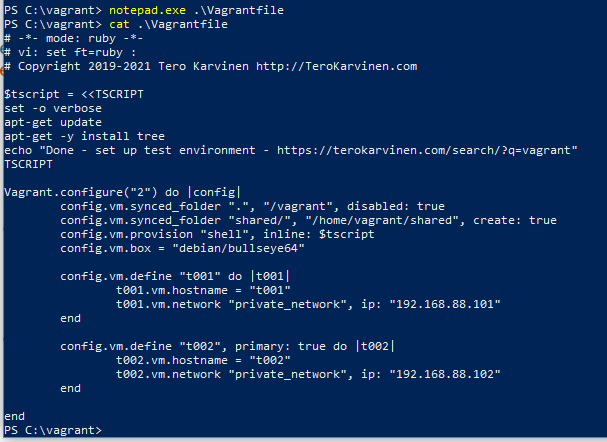
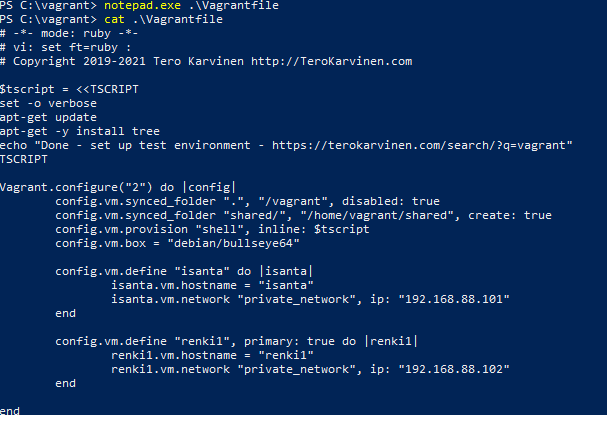
Add b) and c)

diff --git a/h6-kulkurin-projekti.md b/h6-kulkurin-projekti.md
@@ -158,7 +158,7 @@ Vagrantilla luotu virtuaalikone vaikuttaisi olevan toiminnassa, sillä siihen sa
 
 ![Vagrant virtual machine in virtualbox](1.png)
 
-Ja siellähän se näkyi olevan pyörimässä! Tuhoan vielä tämän koneen seuraavaa tehtävää varten:
+Ja siellähän se näkyi olevan pyörimässä! Tuhosin vielä tämän koneen seuraavaa tehtävää varten:
 ```
 vagrant@bullseye:~$ exit
 logout
@@ -172,7 +172,61 @@ Virtuaalikone poistui onnistuneesti.
 
 ## b) Yksityisverkko. Asenna kaksi virtuaalikonetta samaan verkkoon Vagrantilla. Laita toisen koneen nimeksi "isanta" ja toisen "renki1". Kokeile, että "renki1" saa yhteyden koneeseen "isanta" (esim. ping tai nc). Tehtävä tulee siis tehdä alusta, vaikka olisit ehtinyt kokeilla tätä tunnilla.
 
-Avasin Vagrantin luoman `Vagrantfile`n notepadilla, ja korvasin sen sisällön https://terokarvinen.com/2021/two-machine-virtual-network-with-debian-11-bullseye-and-vagrant/ saadulla sisällöllä.
+Avasin Vagrantin luoman `Vagrantfile`n notepadilla, ja korvasin sen sisällön https://terokarvinen.com/2021/two-machine-virtual-network-with-debian-11-bullseye-and-vagrant/ saadulla sisällöllä. Vaihdoin myös hostien nimet tehtävänannon mukaan.
 
 ![Changes to Vagrantfile](2.png)
 
+Sitten ajoin `vagrant up`illa. Asennuksessa kesti hetkinen. Se näytti kuitenkin onnistuneen:
+
+![two vagrant virtual hosts](3.png)
+
+Otin ssh-yhteyden renkiin verkon testaamista varten ja testasin sitä pingaamalla:
+
+```
+PS C:\vagrant> vagrant ssh renki1
+vagrant@renki1:~$ ping -c 2 192.168.88.101
+PING 192.168.88.101 (192.168.88.101) 56(84) bytes of data.
+64 bytes from 192.168.88.101: icmp_seq=1 ttl=64 time=0.316 ms
+64 bytes from 192.168.88.101: icmp_seq=2 ttl=64 time=1.12 ms
+
+--- 192.168.88.101 ping statistics ---
+2 packets transmitted, 2 received, 0% packet loss, time 1010ms
+rtt min/avg/max/mdev = 0.316/0.717/1.118/0.401 ms
+```
+Yhteys toimii ainakin ping-testin perusteella. Osoitteen testiä varten katsoin aiemmin säädetystä Vagrantfilestä.
+
+## c) Salt master-slave. Toteuta Salt master-slave -arkkitehtuuri verkon yli. Aseta edellisen kohdan kone renki1 orjaksi koneelle isanta.
+
+Asensin isanta-koneelle salt-masterin ja renki1-koneelle salt-minionin (tein nämä samanaikaisesti kahdella instanssilla PowerShelliä):
+
+```
+*MASTER:*
+
+PS C:\vagrant> vagrant ssh isanta
+vagrant@isanta:~$ sudo apt-get update
+vagrant@isanta:~$ sudo apt-get -y install salt-master 
+
+*SLAVE:*
+PS C:\vagrant> vagrant ssh isanta
+vagrant@renki1:~$ sudo apt-get update
+vagrant@renki1:~$ sudo apt-get -y install salt-minion
+vagrant@renki1:~$ sudoedit /etc/salt/minion
+master: 192.168.88.101
+id: renki1
+vagrant@renki1:~$ sudo systemctl restart salt-minion.service
+
+*MASTER:*
+vagrant@isanta:~$ sudo salt-key -A
+The following keys are going to be accepted:
+Unaccepted Keys:
+renki1
+Proceed? [n/Y] y
+Key for minion renki1 accepted.
+
+vagrant@isanta:~$ sudo salt renki1 cmd.run 'whoami'
+renki1:
+    root
+
+```
+
+Arkkitehtuuri asentui onnistuneesti. Tämän tiesin viimeisimmällä komennolla, kutsuin renkiä 'whoami'-komennolla testiksi.
